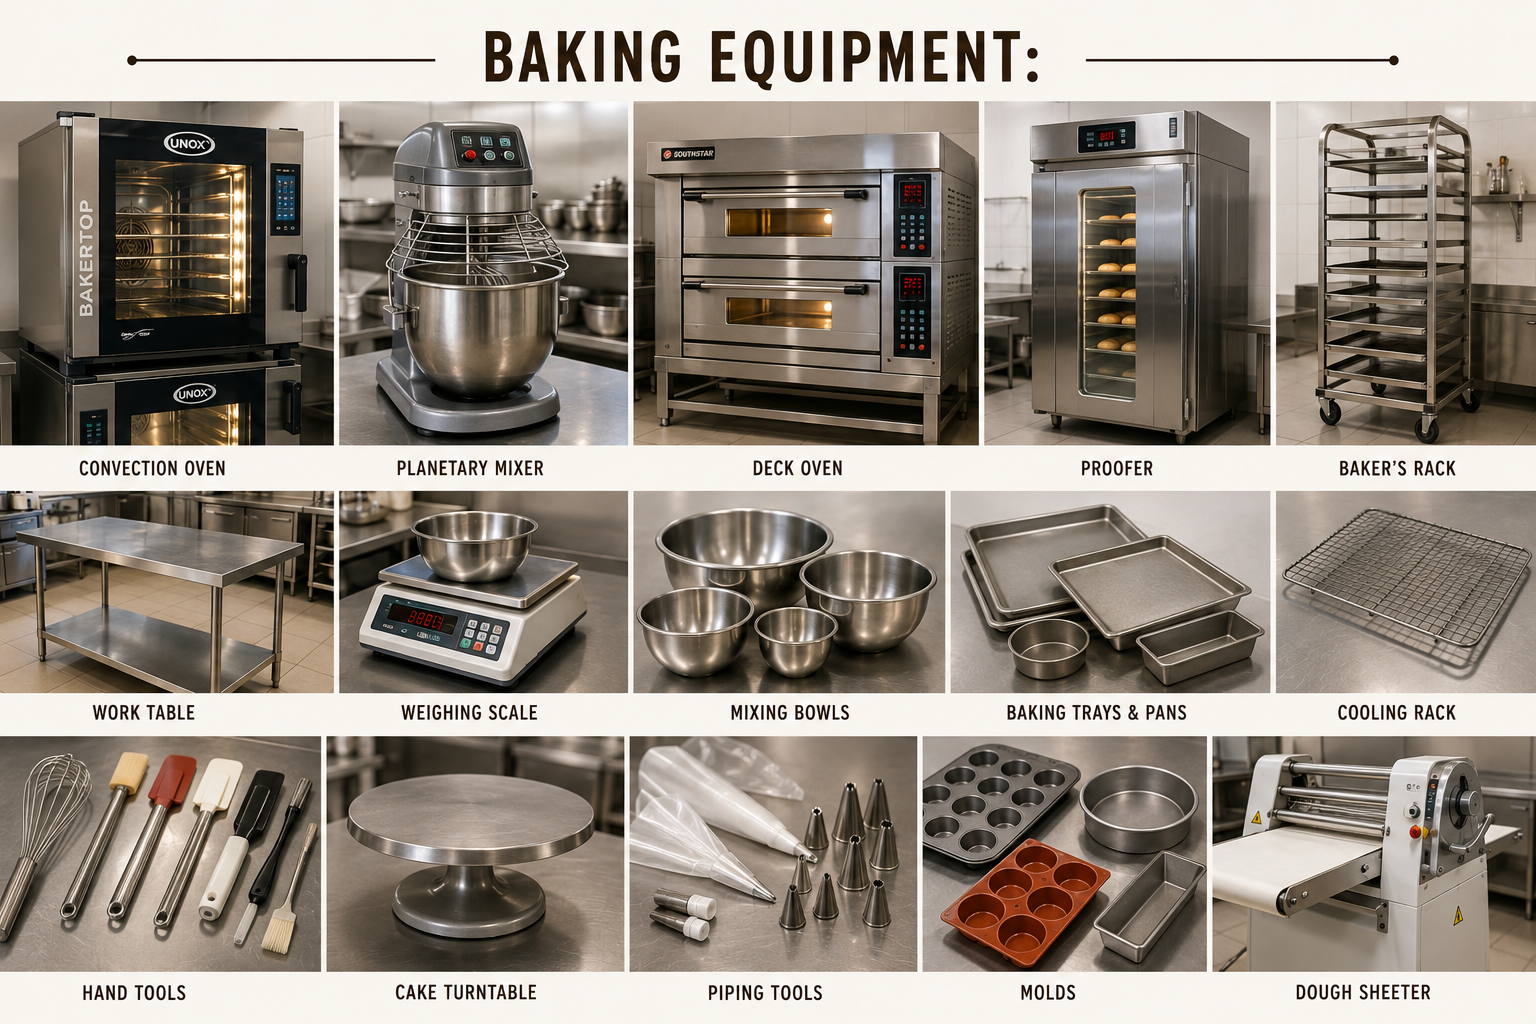
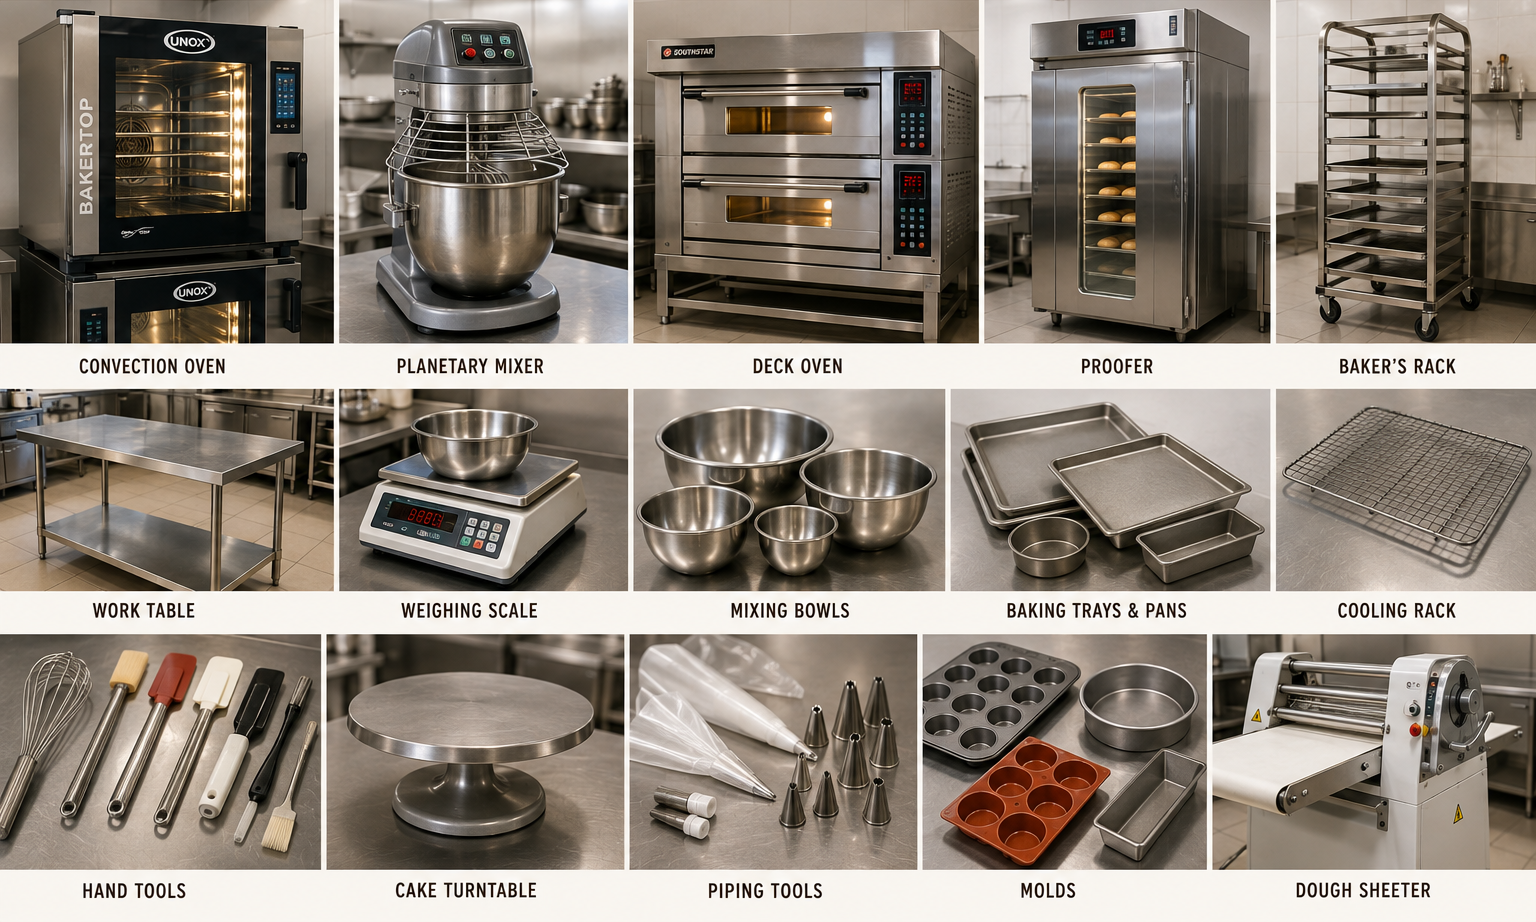
new files

diff --git a/baking-skill-center.html b/baking-skill-center.html
@@ -164,7 +164,7 @@
             <div class="section-title">
                 <h2>Facilities of a Baking Skills Center with Commercial Kitchen</h2>
             </div>
-             <p class="line-center">A Baking Incubation Centre offers entrepreneurs the infrastructure and support needed to develop and commercialise baking products without the high cost and risk of setting up their own facility.</p>
+             <p class="line-center">A professional space for hands-on baking practice, skill development, equipment use, and safe food preparation.</p>
             <div class="grid facilities-grid">
                 <div class="card service-card">
                     <img class="facility-image" src="assets/baking skill pics/commercial kitchen.png" alt="Incubation Centre facility">
@@ -251,46 +251,73 @@
             </div>
         </div>
     </section>
-    <section class="section">
+       <section class="section">
         <div class="container">
             <div class="section-title">
-                <h2>Offline Practice Categories</h2>
-                <p>Each category opens separately so users can understand clearly.</p>
+                <h2>Skills You Can Develop</h2>
             </div>
+             <p class="line-center">Gain hands-on experience and improve your baking techniques through regular practice and strengthen your essential baking skills to prepare quality products with confidence and consistency.</p>
             <div class="grid">
-                <div class="card image-card"><img class="item-photo real-photo"
-                        src="https://images.unsplash.com/photo-1607478900766-efe13248b125?auto=format&amp;fit=crop&amp;w=900&amp;q=80" />
-                    <div class="content">
-                        <h3>Piping Practice</h3>
-                        <p>Practice nozzles, borders, rosettes and decoration finishing.</p><a class="btn secondary"
-                            href="practice-piping.html">View Details</a>
-                    </div>
+                <div class="card service-card">
+                    <div class="icon">🏠</div>
+                    <h3>Basic Baking Skills</h3>
+                    <p>Weighing and scaling ingredients, Mixing techniques, Creaming butter & sugar etc </p>
                 </div>
-                <div class="card image-card"><img class="item-photo real-photo"
-                        src="https://images.unsplash.com/photo-1548907040-4baa42d10919?auto=format&amp;fit=crop&amp;w=900&amp;q=80" />
-                    <div class="content">
-                        <h3>Chocolate Garnish</h3>
-                        <p>Chocolate curls, shards, decorations and plating garnish.</p><a class="btn secondary"
-                            href="practice-chocolate-garnish.html">View Details</a>
-                    </div>
+                <div class="card service-card">
+                    <div class="icon">🥣</div>
+                    <h3>Practical Baking Skills</h3>
+                    <p>Using commercial ovens , Baking-time control ,  Troubleshooting baking problems </p>
                 </div>
-                <div class="card image-card"><img class="item-photo real-photo"
-                        src="https://images.unsplash.com/photo-1509440159596-0249088772ff?auto=format&amp;fit=crop&amp;w=900&amp;q=80" />
-                    <div class="content">
-                        <h3>Baking - Cakes &amp; Cookies</h3>
-                        <p>Practice cakes, cookies, batter mixing and baking basics.</p><a class="btn secondary"
-                            href="practice-baking.html">View Details</a>
-                    </div>
+                <div class="card service-card">
+                    <div class="icon">🧈</div>
+                    <h3>Cookies & Biscuits making skills</h3>
+                    <p>Cookie dough preparation , Shaping biscuits , Filled cookies</p>
                 </div>
-                <div class="card image-card"><img class="item-photo real-photo"
-                        src="https://images.unsplash.com/photo-1464195244916-405fa0a82545?auto=format&amp;fit=crop&amp;w=900&amp;q=80" />
-                    <div class="content">
-                        <h3>Icing Cake</h3>
-                        <p>Cream application, smoothing, layers and finishing practice.</p><a class="btn secondary"
-                            href="practice-icing-cake.html">View Details</a>
-                    </div>
+                <div class="card service-card">
+                    <div class="icon">⏱</div>
+                    <h3>Cake making Skills</h3>
+                    <p>Sponge cake making , Cupcake making , Brownie making , Muffin making etc </p>
                 </div>
+                <div class="card service-card">
+                    <div class="icon">👩🍳</div>
+                    <h3>Cake Decoration skills</h3>
+                    <p>Cake stacking , Writing on cakes , Cake crumb coating, Cake leveling </p>
+                </div>
+                <div class="card service-card">
+                    <div class="icon">📦</div>
+                    <h3>Finishing Skills</h3>
+                    <p>Cake icing , Piping techniques , Layering cakes .</p>
+                </div>
+                 <div class="card service-card">
+                    <div class="icon">🥣</div>
+                    <h3>Ingredient & Recipe Skills</h3>
+                    <p> Understanding flour types , Butter and fat handling , Recipe scaling and conversion</p>
+                </div>
+                <div class="card service-card">
+                    <div class="icon">📦</div>
+                    <h3>Practical Troubleshooting</h3>
+                    <p>Preventing uneven baking , Fixing dense cakes , Preventing cake sinking </p>
+                </div>
+                <div class="card service-card">
+                    <div class="icon">🧈</div>
+                    <h3>Professional Kitchen Skills</h3>
+                    <p>Mise en place,, Workstation organization , Baking tray preparation </p>
+                </div>
+                 <div class="card service-card">
+                    <div class="icon">🥣</div>
+                    <h3>Creative Skills</h3>
+                    <p>Cupcake decoration , Cookie decoration Cake styling , Gift box preparation etc</p>
+                </div>
+                <div class="card service-card">
+                    <div class="icon">📦</div>
+                    <h3>Business-Oriented Baking Skills </h3>
+                    <p>Menu planning , Label preparation , Basic inventory management etc </p>
             </div>
+              <div class="card service-card">
+                    <div class="icon">⏱</div>
+                    <h3>Advance Skills</h3>
+                    <p>Bread skills, Dough Skills, Macaron making , Pizza preparation , Donut making  </p>
+                </div>
         </div>
     </section>
     <section class="section">

diff --git a/Bake to business.html b/Bake to business.html
@@ -474,16 +474,14 @@
   <section class="section sarvathaa-about-section" aria-labelledby="about-page-title">
     <div class="container sarvathaa-about-container">
       <div class="sarvathaa-about-heading">
-        <h2 id="about-page-title">Incubation Centre</h2>
+        <h2 id="about-page-title">Bake to Business Program</h2>
       </div>
 
       <div class="sarvathaa-about-intro">
-        <p><b>Baking Product Incubation Center</b></p>
 
-        <p>Our Baking Product Incubation Center is a fully equipped commercial kitchen facility designed to help
-          aspiring bakers, home bakers, and food entrepreneurs transform their baking ideas into market-ready products
-          and businesses.
+        <p>Bake to Business Program is designed to help individuals transform their interest and skills in baking into a practical business opportunity. The program combines hands-on baking practice with essential knowledge required to plan, start, and manage a baking business successfully.
         </p>
+        <p>Participants can develop skills in cakes, breads, cookies, pastries, desserts, decoration, and other baked products, while also learning recipe standardization, product development, costing, pricing, portion control, packaging, and quality management.</p>
       </div>
 
       <div class="sarvathaa-about-main">
@@ -494,17 +492,12 @@
 
         <div class="sarvathaa-incubation-content">
 
-          <p>The centre provides access to professional baking equipment, production facilities, workspaces, and
-            essential kitchen infrastructure without the need to invest in and set up a complete commercial kitchen from
-            the beginning.</p>
+          <p>The program also introduces important areas such as food safety, hygiene, production planning, inventory management, wastage control, and efficient use of equipment and raw materials.</p>
 
-          <p>Entrepreneurs can use the facility for recipe development, product trials, testing, small-batch production,
-            product refinement, costing, and commercial preparation. Along with the infrastructure, we provide practical
-            support in ingredient sourcing, packaging, product development, production planning, and business guidance.
+          <p>Beyond baking skills, participants receive guidance on business planning, branding, marketing, customer handling, sales, and daily operations. They can understand how to select suitable products, calculate profitability, maintain consistent quality, and prepare their business for commercial production.
           </p>
 
-          <p>From experimenting with a recipe to developing a sellable product and starting commercial production, our
-            incubation centre provides the facilities and support to turn baking ideas into viable businesses.</p>
+          <p>The Bake to Business Program provides a step-by-step pathway from learning and practising baking to developing products, planning a business, and building a sustainable baking venture. It is suitable for beginners, home bakers, aspiring entrepreneurs, and existing bakers looking to expand their business.</p>
         </div>
       </div>
     </div>
